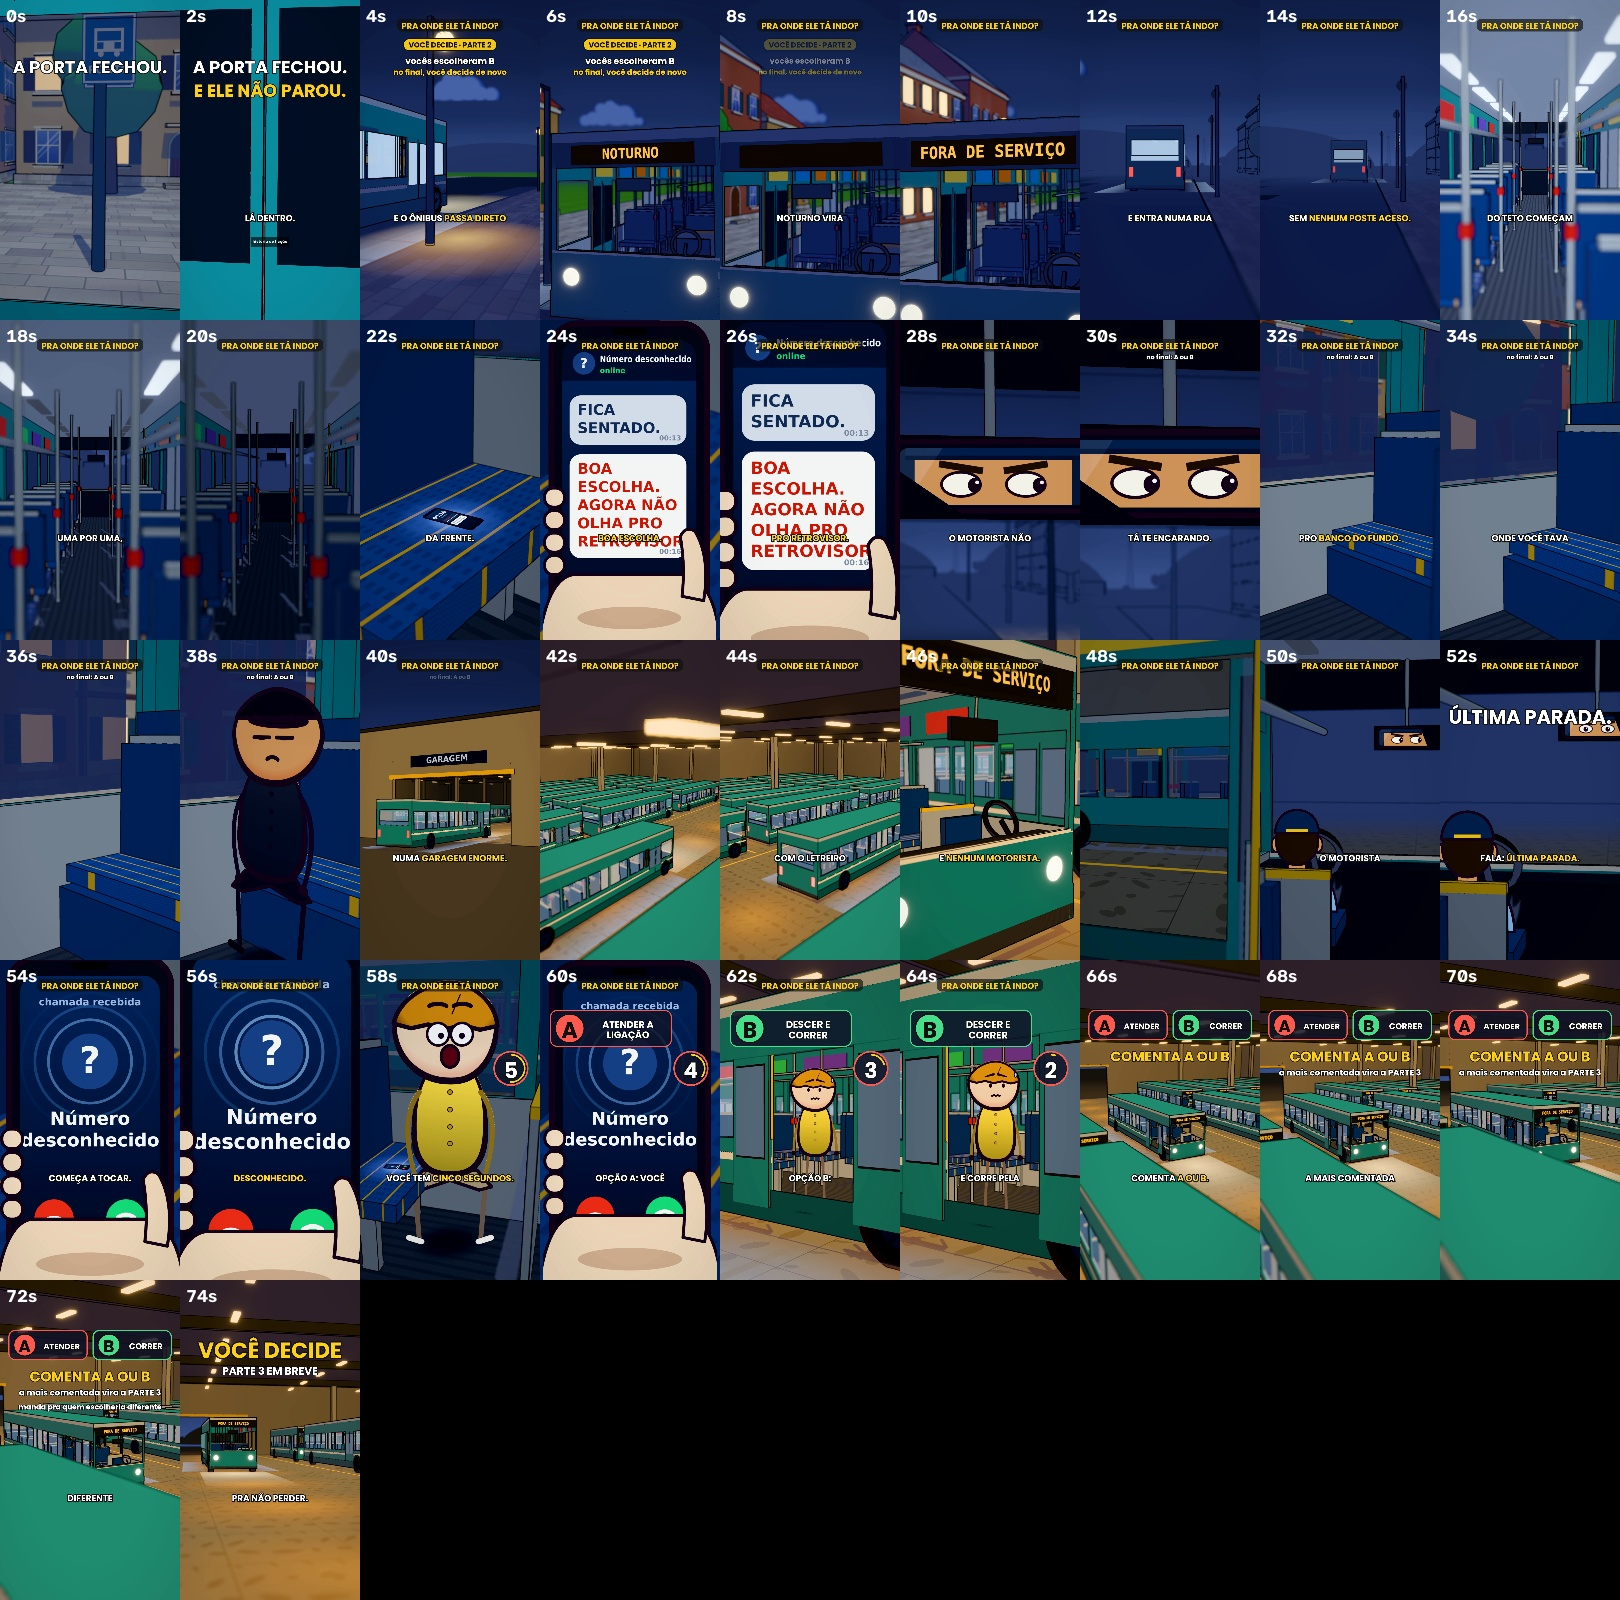
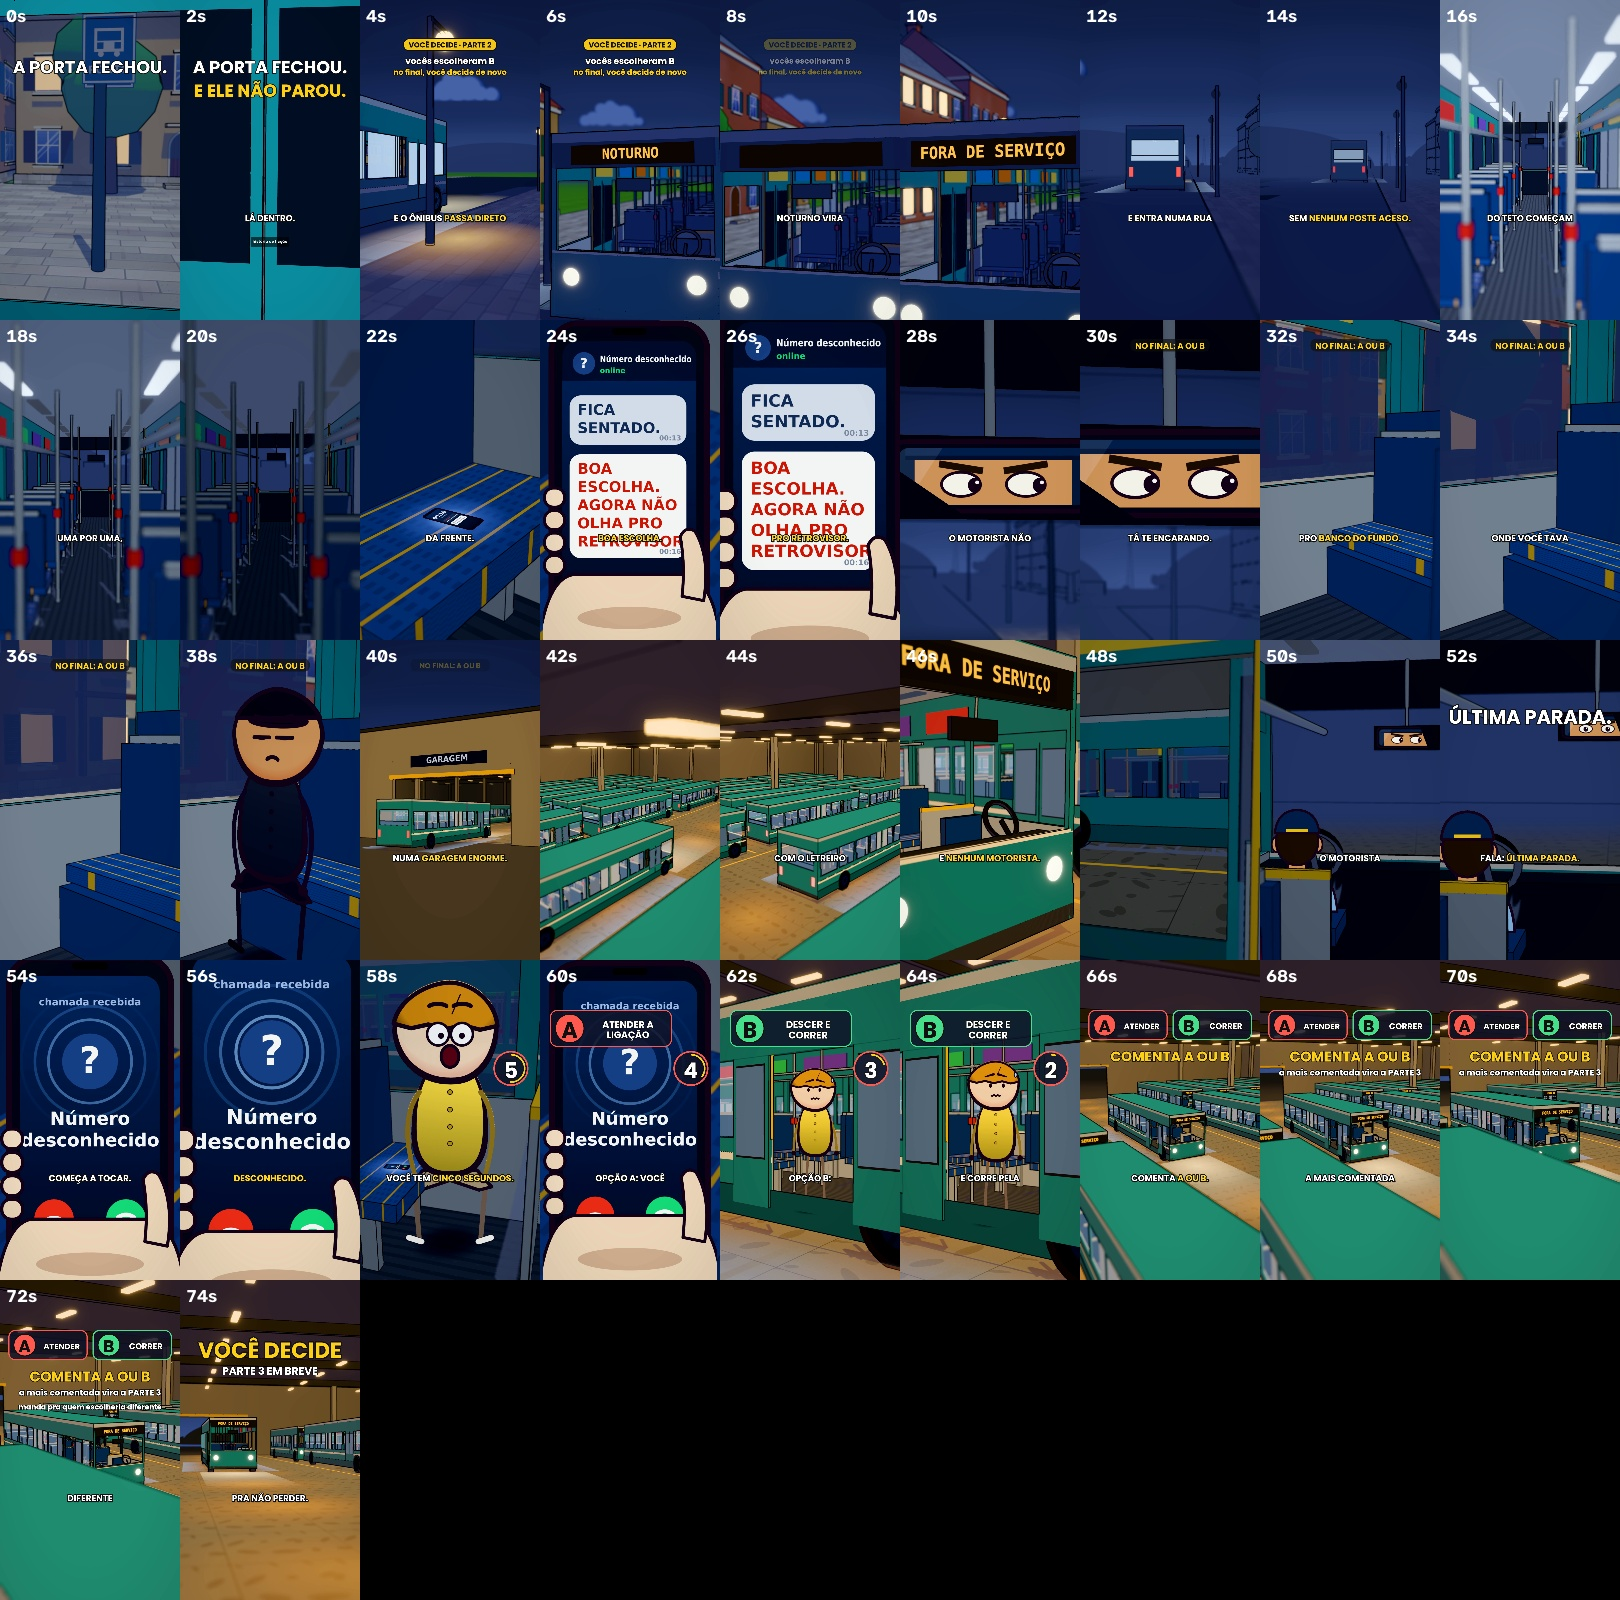
Vídeo 15: sem a pergunta fixa do topo; aviso A/B no lugar dela (QC aprovado)
Claude-Session: https://claude.ai/code/session_01Adyz318NBz57nGHwGc8mF6

diff --git a/projeto_videos3d/v2/ep15/mograph_v1_bak.py b/projeto_videos3d/v2/ep15/mograph_v1_bak.py
@@ -1,0 +1,81 @@
+#!/usr/bin/env python3
+"""Títulos do vídeo 15 em 1080x1920 (camada RGBA sobre o 3D): gancho "A PORTA FECHOU. / E ELE NÃO PAROU.", selo "VOCÊ DECIDE · PARTE 2"
+com "vocês escolheram B", pergunta fixa no topo "PRA ONDE ELE TÁ INDO?", "ÚLTIMA PARADA.", contagem de 5 segundos, cartões A e B,
+a escolha ("a mais comentada vira a PARTE 3"), o pedido de envio e o fecho. Faixa dos títulos: y 220-700 (a legenda fica em ~1260-1360).
+Uso: python3 v2/ep15/mograph.py -> v2/ep15/mg/<plano>/NNNN.png."""
+import os, sys
+from PIL import Image, ImageDraw, ImageFont
+HERE = os.path.dirname(os.path.abspath(__file__)); ROOT = os.path.dirname(os.path.dirname(HERE)); sys.path.insert(0, HERE)
+import plan as P
+FONT = os.path.join(ROOT, 'fonts', 'Poppins-Bold.ttf'); W, H = 1080, 1920
+YEL, WHT, RED, GRN, INK = (255, 210, 20), (255, 255, 255), (255, 90, 80), (70, 225, 140), (16, 16, 16)
+def f(px): return ImageFont.truetype(FONT, px)
+def env(t, t0, t1, a=0.18, b=0.2):
+    k = max(0.0, min(1.0, (t - t0) / a, (t1 - t) / b)); return 1 - (1 - k) ** 3
+def text(d, cx, y, s, col, px, k, stroke=None):
+    s2 = max(1, int(px * (0.85 + 0.15 * k))); fo = f(s2); w = d.textlength(s, font=fo)
+    d.text((cx - w / 2, y + (px - s2) / 2), s, font=fo, fill=col + (int(255 * k),), stroke_width=stroke if stroke is not None else max(4, s2 // 18), stroke_fill=INK + (int(230 * k),))
+def card(d, x0, y0, x1, y1, col, k, letter, label, lpx=46):
+    d.rounded_rectangle((x0, y0, x1, y1), 40, fill=(16, 20, 40, int(215 * k)), outline=col + (int(255 * k),), width=7)
+    r = (y1 - y0) // 2 - 22; cy = (y0 + y1) // 2; cx = x0 + 30 + r
+    d.ellipse((cx - r, cy - r, cx + r, cy + r), fill=col + (int(255 * k),), outline=INK + (int(255 * k),), width=6)
+    text(d, cx, cy - int(r * 0.95), letter, INK, int(r * 1.5), k, stroke=0)
+    lines = label.split('\n'); lh = int(lpx * 1.12); y = cy - lh * len(lines) // 2
+    for ln in lines: text(d, (cx + r + x1) // 2, y, ln, WHT, lpx, k); y += lh
+
+def badge(d, y, k):
+    s = 'VOCÊ DECIDE · PARTE 2'; fo = f(44); w = d.textlength(s, font=fo); x0 = (W - w) / 2 - 34
+    d.rounded_rectangle((x0, y, x0 + w + 68, y + 76), 38, fill=YEL + (int(240 * k),), outline=INK + (int(255 * k),), width=5)
+    d.text((x0 + 34, y + 8), s, font=fo, fill=INK + (int(255 * k),))
+
+COUNT0, COUNT1 = 57.12, 65.8           # "cinco segundos" ... "Comenta" (o 1 fica parado no fim)
+def frame(t):
+    im = Image.new('RGBA', (W, H), (0, 0, 0, 0)); d = ImageDraw.Draw(im); n = 0
+    if t < 3.05:                          # gancho: a premissa no quadro 0
+        k = env(t, -1, 3.05, 0.1, 0.2); text(d, W / 2, 330, 'A PORTA FECHOU.', WHT, 104, k)
+        if t >= 0.0: text(d, W / 2, 470, 'E ELE NÃO PAROU.', YEL, 104, env(t, 0.9, 3.05, 0.12, 0.2) if t >= 0.9 else 0.0)
+        n += 1
+    if 3.05 <= t < 8.0:
+        badge(d, 230, env(t, 3.05, 8.0, 0.2, 0.3)); text(d, W / 2, 330, 'vocês escolheram B', WHT, 52, env(t, 3.2, 8.0))
+        if t >= 3.6: text(d, W / 2, 400, 'no final, você decide de novo', YEL, 46, env(t, 3.6, 8.0))
+        n += 1
+    if 28.0 <= t < 40.0: text(d, W / 2, 196, 'no final: A ou B', WHT, 38, env(t, 28.0, 40.0, 0.3, 0.3)); n += 1   # metade sai ~36 s (IG Ep. 1)
+    if 3.05 <= t < 65.75:                 # pergunta fixa no topo (lição do Things Explained)
+        k = env(t, 3.05, 65.75, 0.3, 0.2); s2 = 'PRA ONDE ELE TÁ INDO?'; fo = f(50); w = d.textlength(s2, font=fo)
+        d.rounded_rectangle(((W - w) / 2 - 28, 112, (W + w) / 2 + 28, 188), 30, fill=(16, 16, 16, int(170 * k)))
+        text(d, W / 2, 120, s2, YEL, 50, k, stroke=0); n += 1
+    if 51.0 <= t < 52.4: text(d, W / 2, 380, 'ÚLTIMA PARADA.', WHT, 116, env(t, 51.0, 52.4, 0.12, 0.2)); n += 1
+    if COUNT0 <= t < COUNT1:   # contagem 5 -> 1 no canto direito
+        st = (COUNT1 - COUNT0) / 5.0; k = env(t, COUNT0, COUNT1 + 5, 0.15, 0.2); v = max(1, 5 - int((t - COUNT0) / st))
+        cx, cy, r = 905, 650, 105
+        d.ellipse((cx - r, cy - r, cx + r, cy + r), fill=(16, 20, 40, int(220 * k)), outline=RED + (int(255 * k),), width=10)
+        frac = ((t - COUNT0) % st) / st
+        d.arc((cx - r + 18, cy - r + 18, cx + r - 18, cy + r - 18), -90, -90 + 360 * (1 - frac), fill=YEL + (int(255 * k),), width=10)
+        text(d, cx, cy - 78, str(v), WHT, 130, k); n += 1
+    if 58.96 <= t < 61.5: card(d, 60, 300, 790, 520, RED, env(t, 58.96, 61.5), 'A', 'ATENDER A\nLIGAÇÃO', 56); n += 1
+    if 61.52 <= t < 65.75: card(d, 60, 300, 790, 520, GRN, env(t, 61.52, 65.75), 'B', 'DESCER E\nCORRER', 58); n += 1
+    if 65.8 <= t < 72.8:       # a escolha: os dois cartões lado a lado + chamada para comentar + envio
+        k = env(t, 65.8, 72.8)
+        card(d, 50, 300, 525, 480, RED, k, 'A', 'ATENDER', 48); card(d, 555, 300, 1030, 480, GRN, k, 'B', 'CORRER', 50)
+        text(d, W / 2, 520, 'COMENTA A OU B', YEL, 84, k)
+        if t >= 67.62: text(d, W / 2, 640, 'a mais comentada vira a PARTE 3', WHT, 50, env(t, 67.62, 72.8))
+        if t >= 70.18: text(d, W / 2, 730, 'manda pra quem escolheria diferente', WHT, 44, env(t, 70.18, 72.8))
+        n += 1
+    if t >= 72.94:             # fecho
+        k = env(t, 72.94, 99); text(d, W / 2, 330, 'VOCÊ DECIDE', YEL, 130, k)
+        if t >= 73.4: text(d, W / 2, 500, 'PARTE 3 EM BREVE', WHT, 64, env(t, 73.4, 99)); n += 1
+        n += 1
+    return im, n
+def main():
+    mg = os.path.join(HERE, 'mg'); os.makedirs(mg, exist_ok=True)
+    blank = os.path.join(mg, '_blank.png'); Image.new('RGBA', (W, H), (0, 0, 0, 0)).save(blank)
+    for s in P.SHOTS:
+        dd = os.path.join(mg, s.name); os.makedirs(dd, exist_ok=True); c = 0
+        for fr in s.frames:
+            dst = os.path.join(dd, f'{fr:04d}.png')
+            if os.path.lexists(dst): os.remove(dst)
+            im, n = frame(fr / P.FPS)
+            if not n: os.link(blank, dst); continue
+            im.save(dst, compress_level=1); c += 1
+        print(s.name, 'ok', c, 'quadros com título')
+if __name__ == '__main__': main()

diff --git a/projeto_videos3d/v2/ep15/mograph.py b/projeto_videos3d/v2/ep15/mograph.py
@@ -1,6 +1,6 @@
 #!/usr/bin/env python3
 """Títulos do vídeo 15 em 1080x1920 (camada RGBA sobre o 3D): gancho "A PORTA FECHOU. / E ELE NÃO PAROU.", selo "VOCÊ DECIDE · PARTE 2"
-com "vocês escolheram B", pergunta fixa no topo "PRA ONDE ELE TÁ INDO?", "ÚLTIMA PARADA.", contagem de 5 segundos, cartões A e B,
+com "vocês escolheram B", "ÚLTIMA PARADA.", contagem de 5 segundos, cartões A e B,
 a escolha ("a mais comentada vira a PARTE 3"), o pedido de envio e o fecho. Faixa dos títulos: y 220-700 (a legenda fica em ~1260-1360).
 Uso: python3 v2/ep15/mograph.py -> v2/ep15/mg/<plano>/NNNN.png."""
 import os, sys
@@ -39,9 +39,8 @@ def frame(t):
         badge(d, 230, env(t, 3.05, 8.0, 0.2, 0.3)); text(d, W / 2, 330, 'vocês escolheram B', WHT, 52, env(t, 3.2, 8.0))
         if t >= 3.6: text(d, W / 2, 400, 'no final, você decide de novo', YEL, 46, env(t, 3.6, 8.0))
         n += 1
-    if 28.0 <= t < 40.0: text(d, W / 2, 196, 'no final: A ou B', WHT, 38, env(t, 28.0, 40.0, 0.3, 0.3)); n += 1   # metade sai ~36 s (IG Ep. 1)
-    if 3.05 <= t < 65.75:                 # pergunta fixa no topo (lição do Things Explained)
-        k = env(t, 3.05, 65.75, 0.3, 0.2); s2 = 'PRA ONDE ELE TÁ INDO?'; fo = f(50); w = d.textlength(s2, font=fo)
+    if 28.0 <= t < 40.0:                  # metade sai ~36 s (IG Ep. 1); a pergunta fixa do topo saiu a pedido do usuário
+        k = env(t, 28.0, 40.0, 0.3, 0.3); s2 = 'NO FINAL: A OU B'; fo = f(50); w = d.textlength(s2, font=fo)
         d.rounded_rectangle(((W - w) / 2 - 28, 112, (W + w) / 2 + 28, 188), 30, fill=(16, 16, 16, int(170 * k)))
         text(d, W / 2, 120, s2, YEL, 50, k, stroke=0); n += 1
     if 51.0 <= t < 52.4: text(d, W / 2, 380, 'ÚLTIMA PARADA.', WHT, 116, env(t, 51.0, 52.4, 0.12, 0.2)); n += 1

diff --git a/projeto_videos3d/v2/ep15/LIMITACOES.md b/projeto_videos3d/v2/ep15/LIMITACOES.md
@@ -9,3 +9,4 @@
 - Som: efeitos sintetizados (motor seguindo a velocidade, cliques das lâmpadas, lâmpada do fundo piscando, grilos na rua escura, zumbido das lâmpadas de sódio, porta pneumática, freio, vibração e toque genérico do celular, contagem, passos) e trilha de tensão (`lib/tensao.py`, 24 deixas). Nenhum toque de fabricante.
 - Avisos novos (dado do Instagram do Ep. 1: metade sai por volta dos 36 s): "no final, você decide de novo" (3,6–8 s) e "no final: A ou B" (28–40 s). Ainda não medidos.
 - O motorista continua só de costas e pelos olhos no retrovisor; a fala "ÚLTIMA PARADA" aparece como texto na tela.
+- Revisão 2 (pedido do usuário): saiu a pergunta fixa do topo "PRA ONDE ELE TÁ INDO?". O aviso "NO FINAL: A OU B" (28–40 s) passou para o lugar dela, no topo, com fundo escuro. Versão anterior: `v2/ep15/mograph_v1_bak.py` e `v2/ep15/out/15_ultimo_onibus_parte2_v1_com_pergunta.mp4` (local, fora do git). QC da revisão aprovado (mesmos valores).

diff --git a/projeto_videos3d/CHANGELOG.md b/projeto_videos3d/CHANGELOG.md
@@ -11,6 +11,7 @@
 - A silhueta preta foi trocada por uma pessoa comum sentada, a pedido do usuário.
 - Avisos de que há escolha no fim, guiados pelo Instagram do Ep. 1 (`analysis/canal/2026-11-21_instagram_eselab3d.md`).
 - QC aprovado: −13,9 LUFS, TP −1,8, correlação da narração 0,959, atraso e deriva 0 ms. Thumbnail `thumbnails/15_ultimo_onibus_parte2_thumb.png/.jpg`. Pacote de postagem em `v2/ep15/POSTAGEM.md`.
+- Revisão 2: removida a pergunta fixa "PRA ONDE ELE TÁ INDO?" (o usuário não gostou); "NO FINAL: A OU B" sobe para o topo. QC aprovado de novo.
 
 ## v0.17 — vídeo 14 "Vendaval · Ep. 2" (continuação do 12, a maioria escolheu B) (2026-11-18)
 - Cenas na skill Xavier (`teste_xavier/src/videos/vendaval2/`, composição `Vendaval2Short`), 20 planos cortados nas palavras-chave, render nativo 1080x1920 (2022 quadros).
